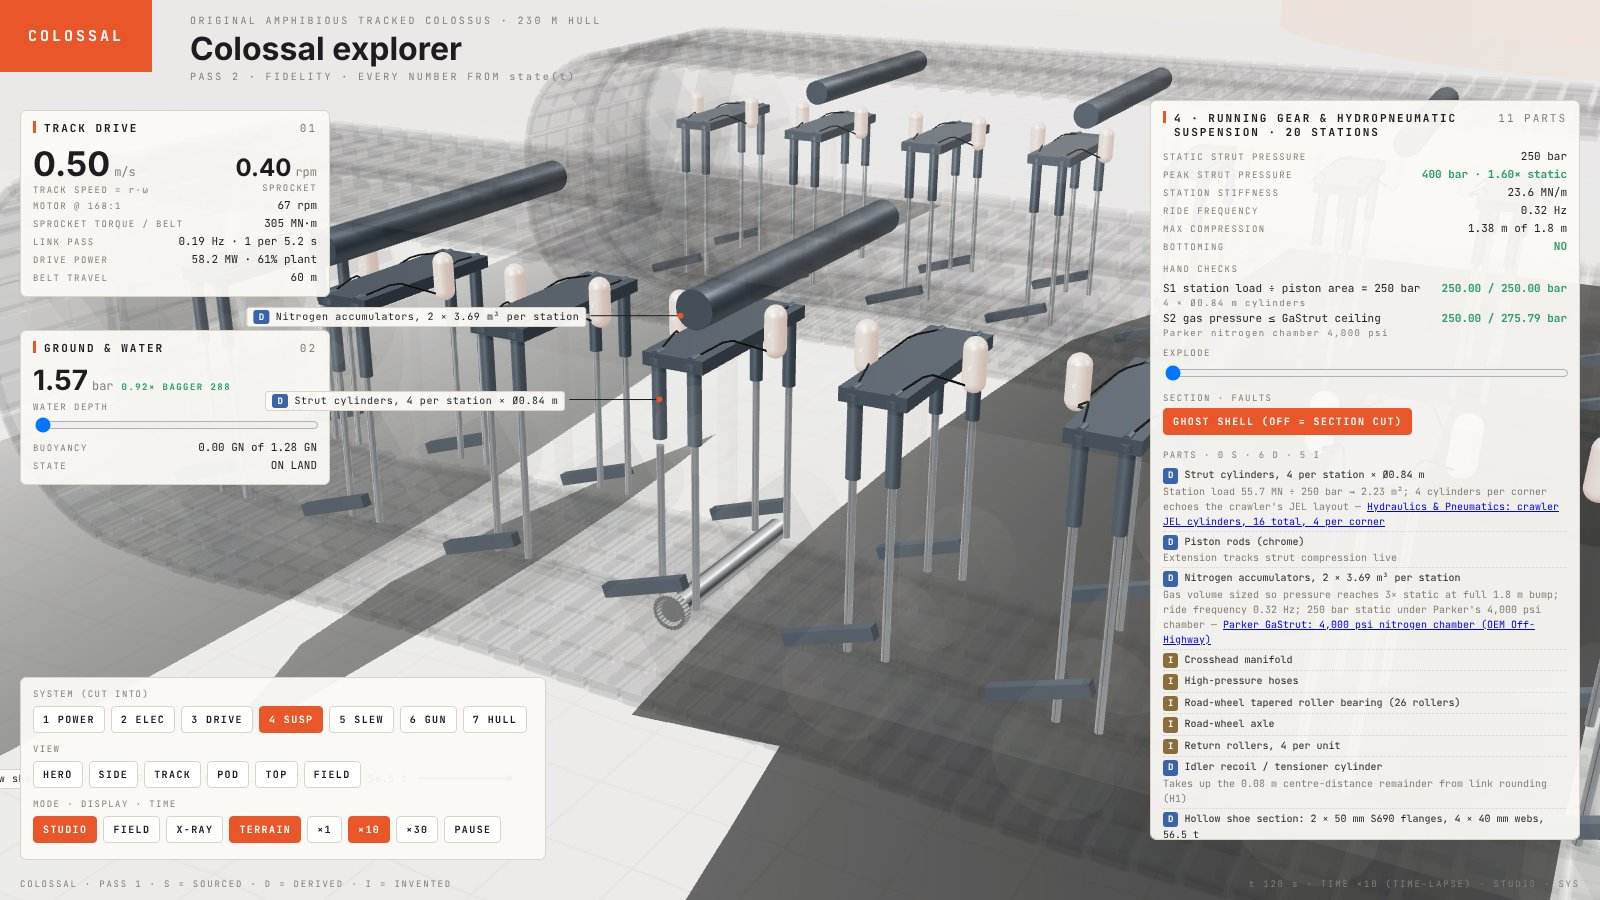
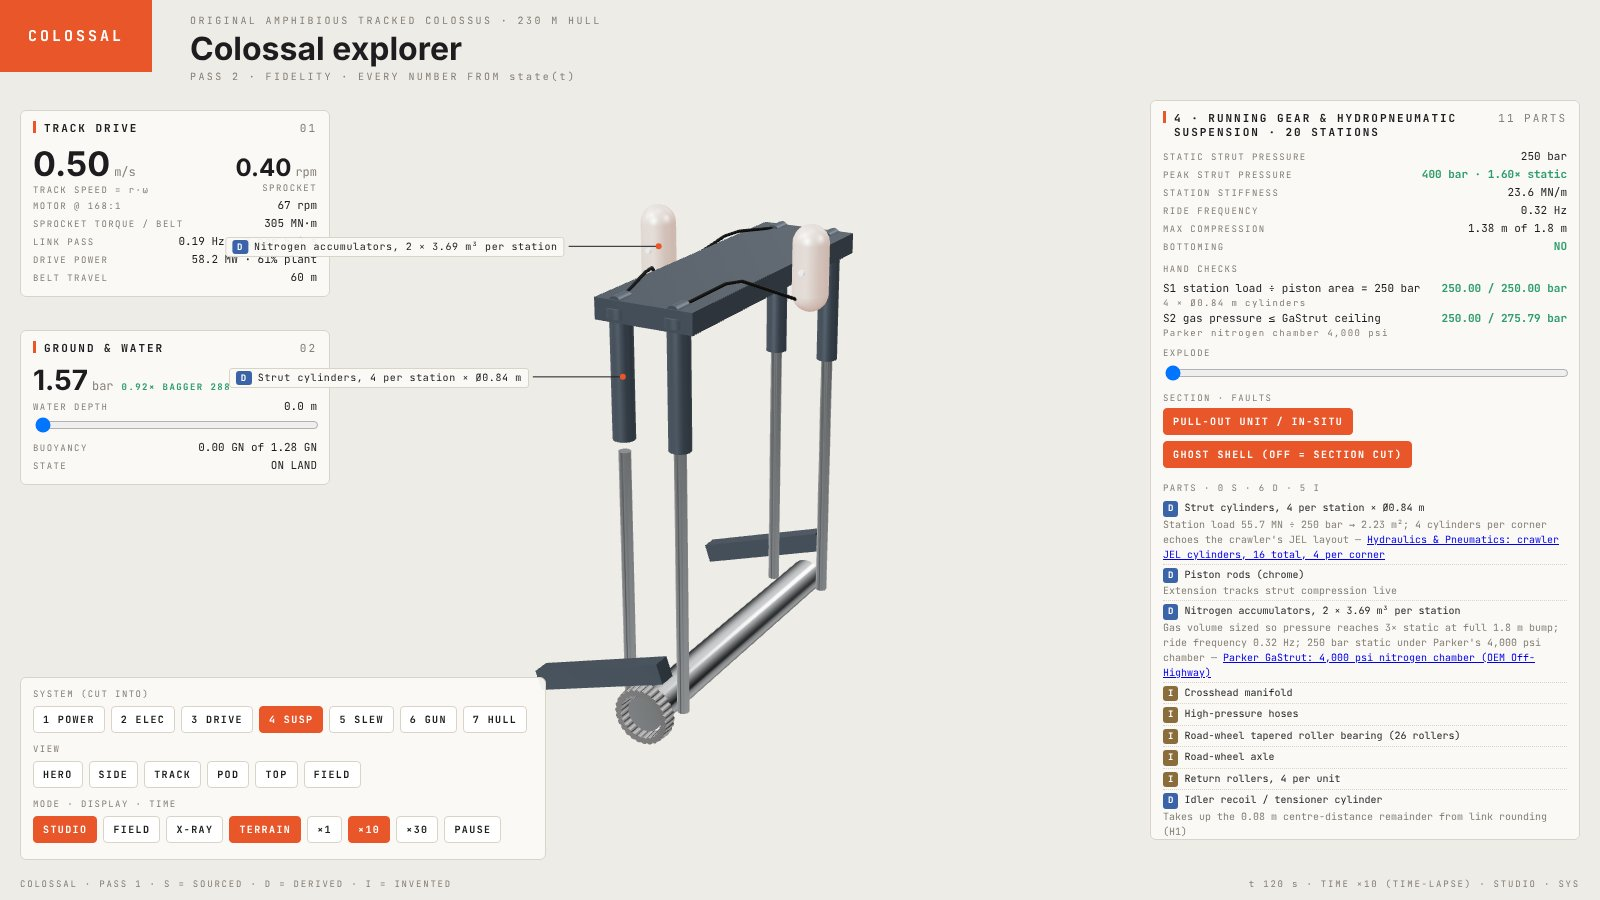
Pass 3 WIP: pull-out unit mode for Power/Electrical/Suspension, camera follow, final comparison sheet
Claude-Session: https://claude.ai/code/session_018UTQJpjdRLbnEvVPizER75

diff --git a/machines/colossal/main.js b/machines/colossal/main.js
@@ -283,7 +283,7 @@ function camStep(dt) {
 }
 
 // ---------------------------------------------------------------- modes
-const ui = {t: 0, rate: 10, view: 'HERO', mode: 'STUDIO', xray: false, terrain: true, depth: 0, paused: false, sys: 0, explode: 0, ghost: false, strobe: true, trip: {}};
+const ui = {t: 0, rate: 10, view: 'HERO', mode: 'STUDIO', xray: false, terrain: true, depth: 0, paused: false, sys: 0, explode: 0, ghost: false, pull: false, strobe: true, trip: {}};
 function applyMode() {
   const f = ui.mode === 'FIELD';
   document.body.classList.toggle('field', f);
@@ -312,12 +312,13 @@ function act(k) {
   else if (k === 'p') ui.paused = !ui.paused;
   else if (k.startsWith('s:')) selectSys(+k.slice(2));
   else if (k === 'ghost') { ui.ghost = !ui.ghost; applyShell(); }
+  else if (k === 'pull') { ui.pull = !ui.pull; applyShell(); selectSys(-1); }
   else if (k === 'strobe') ui.strobe = !ui.strobe;
   else if (k.startsWith('f:')) { const f = k.slice(2); ui.trip[f] = !ui.trip[f]; }
   sync();
 }
 function sync() {
-  document.querySelectorAll('.btn').forEach((b) => { const k = b.dataset.k; b.classList.toggle('on', k === `v:${ui.view}` || k === `m:${ui.mode}` || (k === 'x' && ui.xray) || (k === 'g' && ui.terrain) || k === `r:${ui.rate}` || (k === 'p' && ui.paused) || k === `s:${ui.sys}` || (k === 'ghost' && ui.ghost) || (k === 'strobe' && ui.strobe) || (k.startsWith('f:') && ui.trip[k.slice(2)])); });
+  document.querySelectorAll('.btn').forEach((b) => { const k = b.dataset.k; b.classList.toggle('on', k === `v:${ui.view}` || k === `m:${ui.mode}` || (k === 'x' && ui.xray) || (k === 'g' && ui.terrain) || k === `r:${ui.rate}` || (k === 'p' && ui.paused) || k === `s:${ui.sys}` || (k === 'ghost' && ui.ghost) || (k === 'pull' && ui.pull) || (k === 'strobe' && ui.strobe) || (k.startsWith('f:') && ui.trip[k.slice(2)])); });
 }
 addEventListener('keydown', (e) => { if (e.key === 'h' || e.key === 'H') $('hud').style.display = $('hud').style.display === 'none' ? '' : 'none'; });
 $('depth').oninput = (e) => { ui.depth = +e.target.value; };
@@ -398,22 +399,44 @@ function applyShell() {
   }
   for (const g of GREEB) g.visible = !(ui.sys && ui.ghost);
   for (const s of SYS) for (const g of s.groups) g.visible = !ui.sys || s.n === ui.sys;
+  const S = SYS[ui.sys - 1], P = ui.sys && ui.pull && S?.frame.pull;
+  const ENV = [ground, water, salt, grass, fig, contact];
+  if (P && !ui._env) ui._env = ENV.map((o) => o.visible);
+  if (P) for (const o of ENV) o.visible = false; else if (ui._env) { ENV.forEach((o, i) => o.visible = ui._env[i]); ui._env = null; }
+  for (const m of SHELL) { m.visible = !P; m.needsUpdate = true; }
+  for (const s of SYS) for (const g of s.groups) g.traverse((o) => { if (o.isInstancedMesh) { o.userData.n0 ??= o.count; o.count = o.userData.n0; } });
+  if (P) {
+    const keep = new Set(S.parts.filter((p) => P.ids.includes(p.id)).map((p) => p.obj).filter(Boolean));
+    scene.updateMatrixWorld(true);
+    const box = new THREE.Box3(); for (const k of keep) if (!k.isInstancedMesh || P.count?.[S.parts.find((p) => p.obj === k).id] == null) box.expandByObject(k);
+    box.expandByScalar(Math.max(1.5, box.getSize(new THREE.Vector3()).length() * 0.06));
+    const inKeep = (o) => { for (let a = o; a; a = a.parent) if (keep.has(a)) return true; return false; };
+    const tmp = new THREE.Box3(), cc = new THREE.Vector3();
+    for (const g of S.groups) g.traverse((o) => {
+      if (!o.isMesh) { o.visible = true; return; }
+      if (inKeep(o)) { o.visible = true; return; }
+      if (o.isInstancedMesh) { o.visible = false; return; }
+      tmp.setFromObject(o); o.visible = box.containsPoint(tmp.getCenter(cc));
+    });
+    for (const p of S.parts) if (P.count?.[p.id] != null && p.obj?.isInstancedMesh) p.obj.count = P.count[p.id];
+  } else if (ui.sys) for (const g of S.groups) g.traverse((o) => { o.visible = true; });
   SYSMATS.eng.transparent = ui.sys === 1; SYSMATS.eng.opacity = ui.sys === 1 ? 0.3 : 1; SYSMATS.eng.needsUpdate = true;
 }
 const wp = (s) => { const f = s.frame; const p = new THREE.Vector3(...f.t); (f.in === 'slew' ? slew : rig).localToWorld(p); return p; };
 function selectSys(n) {
-  ui.sys = ui.sys === n ? 0 : n; ui.explode = 0; $('explode').value = 0; ui.ghost = true;
+  if (n !== -1) { ui.sys = ui.sys === n ? 0 : n; ui.explode = 0; $('explode').value = 0; ui.ghost = true; ui.pull = !!SYS[ui.sys - 1]?.frame.pull; } else n = ui.sys;
   const s = SYS[ui.sys - 1];
   $('sysCard').style.display = s ? '' : 'none';
   document.querySelectorAll('.card').forEach((c) => { if (/SUSPENSION|HAND CHECKS/.test(c.innerText) && c.id !== 'sysCard') c.style.display = s ? 'none' : ''; });
   if (s) {
     rig.updateMatrixWorld(true); applyShell();
-    const bb = new THREE.Box3(); const fo = s.frame.focus ? s.parts.filter((p) => s.frame.focus.includes(p.id)).map((p) => p.obj).filter(Boolean) : s.groups; for (const g of fo) bb.expandByObject(g);
+    const bb = new THREE.Box3(); const fids = ui.pull && s.frame.pull ? s.frame.pull.ids : s.frame.focus; const fo = fids ? s.parts.filter((p) => fids.includes(p.id) && !(ui.pull && s.frame.pull?.count?.[p.id] != null) && !(p.obj?.isInstancedMesh && ui.pull)).map((p) => p.obj).filter(Boolean) : s.groups; for (const g of fo) bb.expandByObject(g);
     const c = s.frame.auto === false || bb.isEmpty() ? wp(s) : bb.getCenter(new THREE.Vector3());
     const sz = bb.getSize(new THREE.Vector3()), dim = Math.max(sz.x, sz.y * 1.6, sz.z);
-    if (s.frame.auto !== false && !bb.isEmpty()) s.frame.r = dim / (2 * Math.tan(16 * Math.PI / 180)) * (s.frame.k ?? 0.95);
+    if (s.frame.auto !== false && !bb.isEmpty()) s.frame.r = dim / (2 * Math.tan(16 * Math.PI / 180)) * (ui.pull && s.frame.pull ? s.frame.pull.k ?? 1.4 : s.frame.k ?? 0.95);
     cutPlane.constant = c.z + (s.frame.in === 'slew' ? 2 : 1);
     resize();
+    const ag = s.frame.in === 'slew' ? slew : rig; ui.anchor = {g: ag, l: ag.worldToLocal(c.clone()), w: c.clone()};
     VIEWS.SYS = {t: c.toArray(), az: s.frame.az, el: s.frame.el, r: s.frame.r}; view('SYS');
     $('sysT').textContent = `${s.n} · ${s.title.toUpperCase()}`; $('sysN').textContent = `${s.parts.length} PARTS`;
     $('sysPN').textContent = `${s.parts.filter((p) => p.tag === 'S').length} S · ${s.parts.filter((p) => p.tag === 'D').length} D · ${s.parts.filter((p) => p.tag === 'I').length} I`;
@@ -421,7 +444,7 @@ function selectSys(n) {
     const chks = D.SYS_CHECKS().filter((c) => c.sys === s.n);
     $('sysChk').innerHTML = chks.map((c) => `<div class="row"><span>${c.id} ${c.label}</span><span class="${D.sysOK(c) ? 'ok' : 'bad'}">${c.got.toFixed(2)} / ${c.want.toFixed(2)} ${c.unit}</span></div><div class="lab">${c.note}</div>`).join('') || '<div class="lab">—</div>';
     const fb = {1: [['f:gen', 'TRIP GENSET']], 2: [['f:gen', 'TRIP GENSET']], 3: [['f:motor', 'TRIP MOTOR'], ['strobe', 'STROBE 1/100']], 4: [], 5: [], 6: [], 7: [['f:flood', 'FLOOD COMPT']]}[s.n];
-    btns('sysBtns', [['ghost', 'GHOST SHELL (OFF = SECTION CUT)'], ...fb]);
+    btns('sysBtns', [...(s.frame.pull ? [['pull', 'PULL-OUT UNIT / IN-SITU']] : []), ['ghost', 'GHOST SHELL (OFF = SECTION CUT)'], ...fb]);
   } else view('HERO');
   applyShell(); sync();
 }
@@ -506,11 +529,16 @@ function sysPanel() {
 }
 let S0 = null;
 const opts = () => (ui.mode === 'FIELD' ? {terrain: false, depth: ui.depth, slew: 0, elev: 0.012} : {terrain: ui.terrain, depth: ui.depth});
-function renderAt(t) { ui.t = t; const S = K.state(t, opts()); pose(S); panels(S); sysPanel(); renderer.render(scene, cam); labels(); }
+function follow() {
+  rig.updateMatrixWorld(true); if (ui.sys && ui.view === 'SYS' && ui.anchor) { const A = ui.anchor; const w = A.g.localToWorld(A.l.clone()); const d = w.clone().sub(A.w); A.w.copy(w);
+    VIEWS.SYS.t = w.toArray(); if (camFrom) camFrom.t = camFrom.t.map((a, i) => a + d.getComponent(i)); ctl.target.add(d); cam.position.add(d); }
+}
+function renderAt(t) { ui.t = t; const S = K.state(t, opts()); pose(S); follow(); panels(S); sysPanel(); renderer.render(scene, cam); labels(); }
 let last = performance.now();
 function frame(now) {
   const dt = Math.min(0.1, (now - last) / 1000); last = now;
   if (!ui.paused && !window.__hold) ui.t += dt * ui.rate;
+  follow();
   camStep(dt); ctl.update();
   const S = K.state(ui.t, opts()); pose(S); panels(S); sysPanel();
   renderer.render(scene, cam); labels(); requestAnimationFrame(frame);

diff --git a/machines/colossal/sys3d.js b/machines/colossal/sys3d.js
@@ -51,7 +51,7 @@ export function buildSystems(ctx) {
   const ext = (parent, x, y, z, where) => EXTS.push({parent, x, y, z, where});
 
   // ================================================================ 1 POWER PLANT (upper deck, rear block)
-  const S1 = sys(1, 'power', 'Power plant · 12 × 8 MW dual-fuel gensets', {focus: ['block', 'alt', 'turbo', 'cac', 'exh'], k: 3.2, in: 'slew', t: [-118, 11, 0], az: -40, el: 46, r: 125});
+  const S1 = sys(1, 'power', 'Power plant · 12 × 8 MW dual-fuel gensets', {focus: ['block', 'alt', 'turbo', 'cac', 'exh'], k: 3.2, pull: {ids: ['block', 'alt', 'turbo', 'cac', 'exh', 'heads', 'rocker', 'fpump', 'doors', 'mounts', 'pistons', 'gvu'], count: {heads: 8, rocker: 8, fpump: 8, doors: 16, mounts: 8, pistons: 8}, k: 1.9}, in: 'slew', t: [-118, 11, 0], az: -32, el: 30, r: 125});
   const P = grp(slew); S1.groups.push(P);
   const E = D.POWER, mBlock = mat('eng', 0x46505a, {m: 0.6, r: 0.45}), mHead = mat('head', 0x7f8a94, {m: 0.7, r: 0.35, e: 0xff5a1f, ei: 0}), mAlt = mat('alt', 0x2f5d8a, {m: 0.5, r: 0.4}), mBase = mat('base', 0x2b2d30, {m: 0.6}), mPipe = mat('exh', 0x9b8f7e, {m: 0.8, r: 0.3}), mTank = mat('tank', 0xc9b25a, {m: 0.3, r: 0.6}), mWhite = mat('white', 0xe9e8e3, {m: 0.2, r: 0.5}), mCO2 = mat('co2', 0xb22222, {m: 0.4, r: 0.4});
   const ROOMS = [];
@@ -140,7 +140,7 @@ export function buildSystems(ctx) {
   S1.engineGroups = engines;
 
   // ================================================================ 2 ELECTRICAL (switchboards, transformers, slip ring, cable trays, routed cables, drives)
-  const S2 = sys(2, 'elec', 'Electrical · 11 kV ring, slip ring, 690 V drives, routed cables', {focus: ['swb', 'tx', 'slipring', 'brushes'], k: 0.55, in: 'slew', t: [-95, 14, 0], az: -38, el: 40, r: 125});
+  const S2 = sys(2, 'elec', 'Electrical · 11 kV ring, slip ring, 690 V drives, routed cables', {focus: ['swb', 'tx', 'slipring', 'brushes'], k: 0.55, pull: {ids: ['slipring', 'brushes', 'swivel'], k: 2.6}, in: 'slew', t: [-95, 14, 0], az: -38, el: 40, r: 125});
   const EG = grp(slew), EH = grp(rig); S2.groups.push(EG, EH);
   const mSwb = mat('swb', 0xc7ccd1, {m: 0.3, r: 0.5}), mSwbD = mat('swbD', 0x8e959c, {m: 0.3}), mTx = mat('tx', 0x4c6b55, {m: 0.3, r: 0.6}), mCab = mat('cab', 0x1d1f22, {m: 0.1, r: 0.6, e: 0x22ff66, ei: 0}), mTray = mat('tray', 0x9a9ea3, {m: 0.6}), mCu = mat('cu', 0xb87333, {m: 1, r: 0.25}), mDrive = mat('drv', 0x3d4f73, {m: 0.3});
   const cubGeo = mergeAll([new THREE.BoxGeometry(1, 2.4, 1.8).translate(0, 1.2, 0), new THREE.BoxGeometry(0.8, 0.9, 0.04).translate(0, 1.7, 0.92), new THREE.BoxGeometry(0.1, 0.1, 0.05).translate(0.3, 1.2, 0.93)]);
@@ -249,7 +249,7 @@ export function buildSystems(ctx) {
   part(S3, 'podtrain', 'Pod drives, 4 × 1.5 MW per pod', 'I', null, null, S3.podTrains[0].bm, [0, 0, 3]);
 
   // ================================================================ 4 RUNNING GEAR & SUSPENSION
-  const S4 = sys(4, 'susp', 'Running gear & hydropneumatic suspension · 20 stations', {focus: ['cyl', 'acc', 'manifold', 'bearing'], k: 1.9, in: 'rig', t: [ROAD[4], 12, I.laneZ], az: -60, el: 22, r: 78});
+  const S4 = sys(4, 'susp', 'Running gear & hydropneumatic suspension · 20 stations', {focus: ['cyl', 'acc', 'manifold', 'bearing'], k: 1.9, pull: {ids: ['cyl', 'rod', 'acc', 'manifold', 'hose', 'bearing', 'axle'], k: 1.25}, in: 'rig', t: [ROAD[4], 12, I.laneZ], az: -60, el: 22, r: 78});
   const SG = grp(rig); S4.groups.push(SG);
   const mCylB = mat('cylB', 0x5c6670, {m: 0.7, r: 0.35}), mRod = mat('rodC', 0xdfe3e6, {m: 1, r: 0.12}), mAcc = mat('acc', 0xd8d4c8, {m: 0.4, r: 0.4, e: 0xff3b1f, ei: 0}), mHose = mat('hose', 0x111111, {m: 0.1, r: 0.8});
   S4.stations = [];

diff --git a/PROJECT.md b/PROJECT.md
@@ -69,3 +69,6 @@ Known issues for pass 2: TOP view shows only the slewed upper deck (hull/tracks 
 - Detail added: genset rocker covers, fuel pumps + HP lines, crankcase doors, mounts, sump; sprocket rim (29 T) + spoked carrier + motor cowls/feeders; strut end caps, clevises, bogie arms, accumulator domes + gauges, per-cylinder hoses; breech ring, loading tray, cradle ribs, recoil blocks, trunnion caps.
 - Side-by-side vs Solo-12 (stills/systems/compare1-2.jpg). Scramjet v8 does not render under SwiftShader (stalls at "Loading the test hull"), so its bar is taken from the v8 handoff brief, not stills.
 - Grade vs bar: DRIVE, SLEW near pass; GUN, HULL borderline; POWER, ELEC, SUSP fail on composition (no clear hero, foreground clutter).
+- Joe's calls (11/19): Power, Elec, Susp = pull-out unit by default + in-situ toggle; Scramjet bar = v8 handoff brief only (data/sourcing).
+- Added: pull-out mode (isolates one genset room / slip ring / strut station, hides hull + ground), camera follows the system as the machine moves and slews.
+- Grade vs Solo-12 composition: POWER, DRIVE, SLEW pass; ELEC, SUSP, GUN, HULL not yet (plain or sparse hero, off-centre or busy in-situ background). Not shipped.
